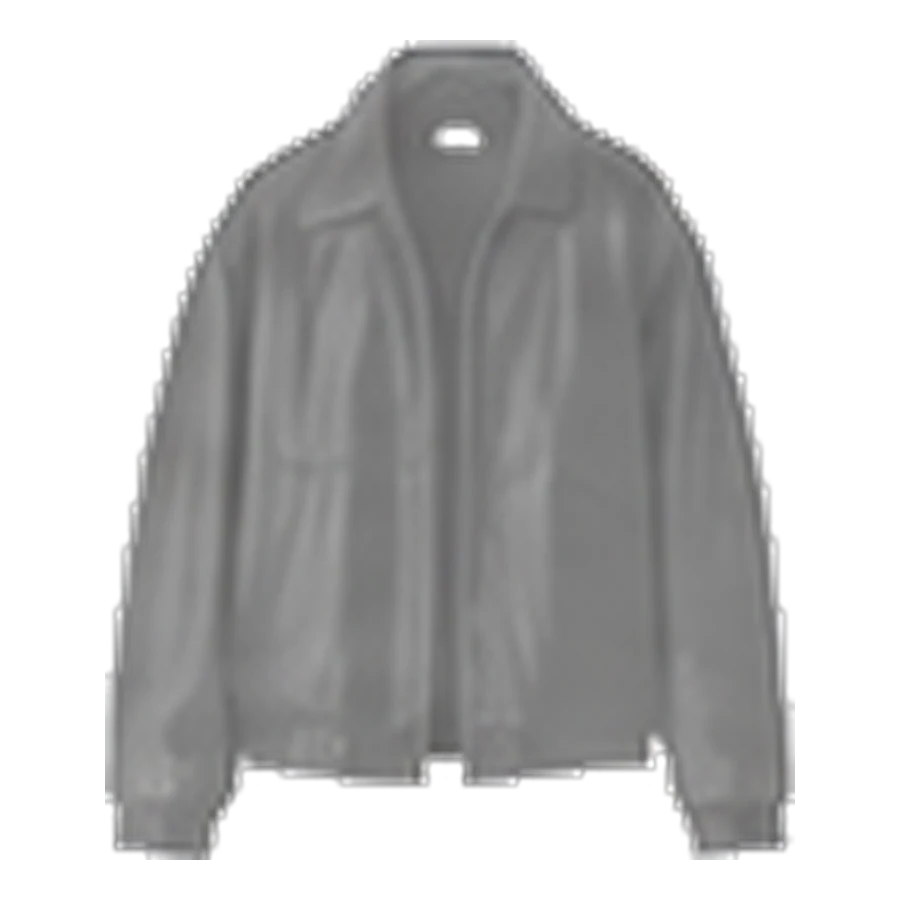
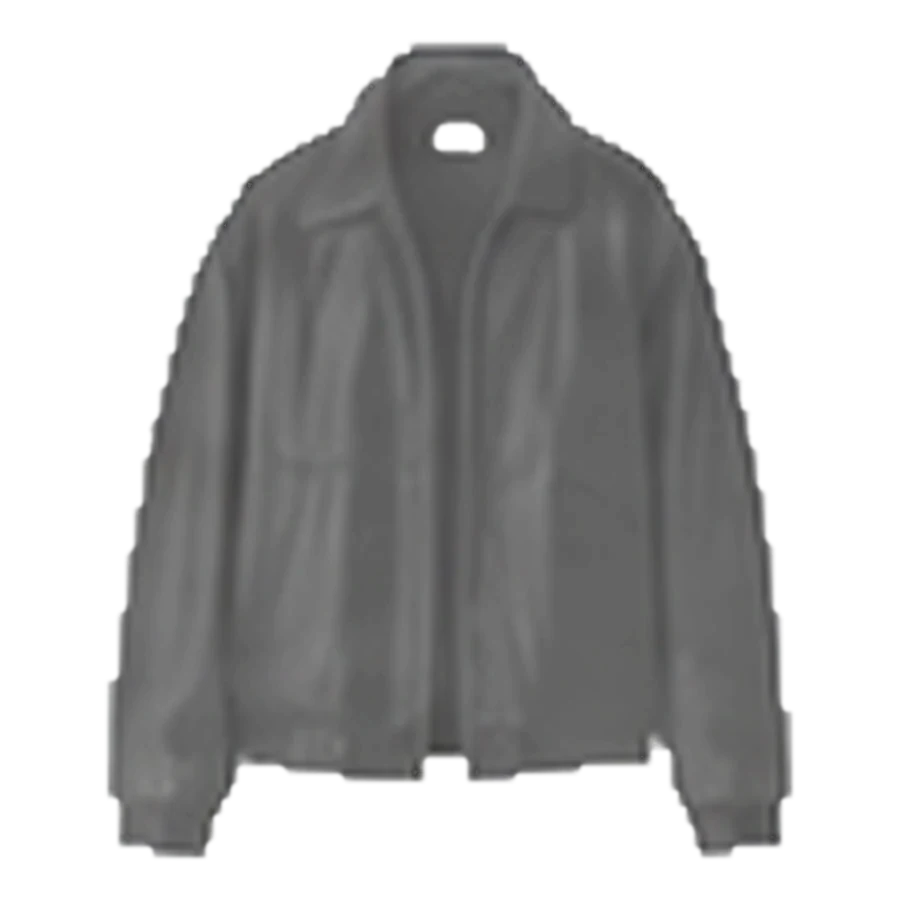
feat: jacket put-on sequence player with shoulder-to-torso fallback
Pre-rendered frame sequences per jacket play under GSAP (power2.inOut,
light crossfade, settle), reverse to take off, and chain when switching
jacket to jacket. Without frames the worn image forms around the model
from the shoulders down. Preloads before starting, warms neighbours,
locks input while playing, updates product info after the cloth settles,
phone-sized frames, reduced motion = quick crossfade. Previews defringed.

diff --git a/src/components/sections/OutfitCarousel.tsx b/src/components/sections/OutfitCarousel.tsx
@@ -15,6 +15,27 @@ export type OutfitItem = Outfit & { product: Product };
 
 const DUR = 0.65;
 const EASE = 'power3.inOut';
+/** Putting a jacket on / taking it off, in seconds. */
+const PUT_ON = 0.85;
+const TAKE_OFF = 0.38;
+const SETTLE = 0.28;
+
+const phone = () => typeof window !== 'undefined' && window.matchMedia('(max-width: 767px)').matches;
+const src = (file: string) => `/img/outfits/${file}`;
+const loadImage = (file: string) =>
+  new Promise<void>((resolve) => {
+    const im = new Image();
+    im.onload = () => resolve();
+    im.onerror = () => resolve();
+    im.src = src(file);
+  });
+/** Every file a garment needs before its change can start. */
+const filesFor = (it: Outfit) => {
+  const m = phone();
+  const final = m && it.mobile ? it.mobile : it.file;
+  const seq = m && it.framesMobile ? it.framesMobile : (it.frames ?? []);
+  return [final, ...seq];
+};
 const AUTOPLAY_MS = 7000;
 
 /** Signed shortest distance from `from` to `to` around a ring of `n`. */
@@ -47,6 +68,8 @@ export function OutfitCarousel({ items }: { items: OutfitItem[] }) {
   const actions = useRef<HTMLDivElement>(null);
   const idle = useRef<number>(0);
   const drag = useRef({ on: false, x: 0, moved: 0 });
+  /** True while a garment is going on or coming off; input is ignored meanwhile. */
+  const busy = useRef(false);
   const wheel = useRef({ acc: 0, lock: 0 });
   const { add } = useStore();
   const { open } = useUi();
@@ -69,7 +92,7 @@ export function OutfitCarousel({ items }: { items: OutfitItem[] }) {
       const a = Math.abs(d);
       const sign = Math.sign(d);
       if (a === 0) return { x: 0, scale: 1, opacity: 0, blur: 0 };
-      if (a === 1) return { x: sign * w * (mobile ? 0.95 : 1.05), scale: 1, opacity: 0.9, blur: 0 };
+      if (a === 1) return { x: sign * w * (mobile ? 0.62 : 1.05), scale: mobile ? 0.9 : 1, opacity: 0.9, blur: 0 };
       if (a === 2) return { x: sign * w * 1.75, scale: 0.85, opacity: mobile ? 0 : 0.35, blur: 1.5 };
       return { x: sign * w * 2.2, scale: 0.85, opacity: 0, blur: 1.5 };
     },
@@ -91,7 +114,11 @@ export function OutfitCarousel({ items }: { items: OutfitItem[] }) {
     });
   }, [active, stageWidth, n, slot]);
 
-  // The garment change: outgoing settles down and away, incoming wipes in.
+  // The garment change. The model never moves: the base frame stays put and a
+  // jacket layer, masked to the torso and arms, either plays its pre-rendered
+  // put-on sequence or — when no sequence has been supplied — forms around the
+  // body from the shoulders down. Switching jacket to jacket takes the current
+  // one off first. Product information updates only once the cloth has settled.
   useLayoutEffect(() => {
     const st = stage.current;
     if (!st) return;
@@ -99,35 +126,97 @@ export function OutfitCarousel({ items }: { items: OutfitItem[] }) {
     prev.current = active;
     if (from === active) return;
     const { gsap } = setupGsap();
-    const out = st.querySelector<HTMLElement>(`[data-jacket="${from}"]`);
-    const inc = st.querySelector<HTMLElement>(`[data-jacket="${active}"]`);
+    const layer = (i: number) => st.querySelector<HTMLElement>(`[data-jacket="${i}"]`);
+    const shadow = st.querySelector<HTMLElement>('[data-shadow]');
+    const out = from === 0 ? null : layer(from);
+    const inc = active === 0 ? null : layer(active);
+    const finish = () => { setShown(active); setSize(null); setSizeError(false); };
 
     if (reduced()) {
-      if (out) gsap.set(out, { opacity: 0 });
-      if (inc) gsap.set(inc, { opacity: 1, clipPath: 'inset(0% 0% 0% 0%)', scale: 1 });
-      setShown(active); setSize(null); setSizeError(false);
-      return;
+      // A quick crossfade, nothing spatial.
+      const tl = gsap.timeline({ onComplete: () => { busy.current = false; } });
+      busy.current = true;
+      if (out) tl.to(out, { opacity: 0, duration: 0.2, ease: 'power1.inOut', overwrite: 'auto' }, 0);
+      if (inc) tl.fromTo(inc, { opacity: 0, clipPath: 'inset(0% 0% 0% 0%)', y: 0, scale: 1 }, { opacity: 1, duration: 0.2, ease: 'power1.inOut', overwrite: 'auto' }, 0);
+      if (shadow) tl.to(shadow, { opacity: inc ? 0.22 : 0, duration: 0.2 }, 0);
+      tl.call(finish);
+      return () => { tl.kill(); };
     }
 
-    const tl = gsap.timeline();
-    if (out) tl.to(out, { opacity: 0, scale: 0.985, duration: 0.5, ease: EASE, overwrite: 'auto' }, 0);
-    if (inc) {
-      tl.fromTo(
-        inc,
-        { opacity: 0, scale: 1.012, clipPath: 'inset(0% 0% 100% 0%)' },
-        { opacity: 1, scale: 1, clipPath: 'inset(0% 0% 0% 0%)', duration: DUR, ease: EASE, overwrite: 'auto' },
-        0.06,
-      );
-    }
-    // Product information: a short vertical reveal.
-    tl.to(info.current, { opacity: 0, y: -8, duration: 0.2, ease: 'power2.in' }, 0)
-      .call(() => { setShown(active); setSize(null); setSizeError(false); }, undefined, 0.22)
-      .fromTo(info.current, { opacity: 0, y: 12 }, { opacity: 1, y: 0, duration: 0.45, ease: 'power3.out' }, 0.24);
-    return () => { tl.kill(); };
-  }, [active]);
+    busy.current = true;
+    let cancelled = false;
+    let tl: gsap.core.Timeline | undefined;
+
+    /** Frames-driven playback (or its reverse) of one jacket layer. */
+    const sequence = (el: HTMLElement, reverse: boolean, duration: number) => {
+      const frames = [...el.querySelectorAll<HTMLElement>('[data-seq]'), el.querySelector<HTMLElement>('[data-final]')!];
+      const last = frames.length - 1;
+      const proxy = { p: reverse ? last : 0 };
+      const paint = () => {
+        // A very light crossfade between neighbouring frames, so nothing flickers.
+        frames.forEach((f, k) => { f.style.opacity = String(Math.max(0, 1 - Math.abs(k - proxy.p))); });
+      };
+      paint();
+      gsap.set(el, { opacity: 1, clipPath: 'inset(0% 0% 0% 0%)', y: 0, scale: 1 });
+      return gsap.to(proxy, { p: reverse ? 0 : last, duration, ease: 'power2.inOut', onUpdate: paint });
+    };
+
+    const takeOff = (t: gsap.core.Timeline, el: HTMLElement, at: number) => {
+      if (el.querySelector('[data-seq]')) {
+        t.add(sequence(el, true, TAKE_OFF), at).to(el, { opacity: 0, duration: 0.12 }, at + TAKE_OFF);
+      } else {
+        // Fallback, reversed: the jacket lifts off the shoulders and thins out.
+        t.to(el, { clipPath: 'inset(22% 0% 78% 0%)', y: -8, scale: 0.99, opacity: 0, duration: TAKE_OFF, ease: 'power2.inOut', overwrite: 'auto' }, at);
+      }
+      if (shadow) t.to(shadow, { opacity: 0, duration: TAKE_OFF, ease: 'power2.inOut' }, at);
+      return at + TAKE_OFF;
+    };
+
+    const putOn = (t: gsap.core.Timeline, el: HTMLElement, at: number) => {
+      const finalFrame = el.querySelector<HTMLElement>('[data-final]');
+      if (el.querySelector('[data-seq]')) {
+        t.add(sequence(el, false, PUT_ON), at);
+      } else {
+        // Fallback: the jacket forms around the model from the shoulders down —
+        // a shoulder-to-torso clip, a small drop, a breath of scale, a crossfade.
+        t.fromTo(el,
+          { clipPath: 'inset(22% 0% 78% 0%)', y: -10, scale: 1.015, opacity: 0 },
+          { clipPath: 'inset(0% 0% 0% 0%)', y: 0, scale: 1, opacity: 1, duration: PUT_ON, ease: 'power2.inOut', overwrite: 'auto' },
+          at);
+      }
+      if (shadow) t.fromTo(shadow, { opacity: 0 }, { opacity: 0.22, duration: PUT_ON, ease: 'power2.inOut' }, at);
+      // Fabric settling: the smallest possible drop and release.
+      const settleTarget = finalFrame ?? el;
+      t.to(settleTarget, { y: 2.5, scale: 1.004, duration: SETTLE / 2, ease: 'power1.out' }, at + PUT_ON)
+        .to(settleTarget, { y: 0, scale: 1, duration: SETTLE / 2, ease: 'power2.out' }, at + PUT_ON + SETTLE / 2);
+      return at + PUT_ON + SETTLE;
+    };
+
+    // Keep the current outfit on screen until the next one has fully loaded.
+    Promise.all(filesFor(items[active]).map(loadImage)).then(() => {
+      if (cancelled) return;
+      tl = gsap.timeline({ onComplete: () => { busy.current = false; } });
+      tl.to(info.current, { opacity: 0, y: -8, duration: 0.2, ease: 'power2.in' }, 0);
+      let at = 0;
+      if (out) at = takeOff(tl, out, at);
+      if (inc) at = putOn(tl, inc, at);
+      tl.call(finish, undefined, at)
+        .fromTo(info.current, { opacity: 0, y: 12 }, { opacity: 1, y: 0, duration: 0.45, ease: 'power3.out' }, at + 0.02);
+    });
+
+    return () => { cancelled = true; tl?.kill(); busy.current = false; };
+  }, [active, items]);
+
+  // After the first paint, warm the neighbours so the first change is instant.
+  useEffect(() => {
+    const warm = () => [1, n - 1].forEach((d) => filesFor(items[(active + d) % n]).forEach(loadImage));
+    const id = window.setTimeout(warm, 800);
+    return () => window.clearTimeout(id);
+  }, [active, items, n]);
 
   const go = useCallback(
     (dir: 1 | -1) => {
+      if (busy.current) return; // one change at a time
       setActive((a) => (a + dir + n) % n);
       idle.current = Date.now() + 12000; // pause autoplay after any interaction
     },
@@ -142,7 +231,7 @@ export function OutfitCarousel({ items }: { items: OutfitItem[] }) {
     let timer = 0;
     let inView = false;
     const tick = () => {
-      if (inView && Date.now() > idle.current && !root.current?.matches(':hover, :focus-within')) {
+      if (inView && !busy.current && Date.now() > idle.current && !root.current?.matches(':hover, :focus-within')) {
         setActive((a) => (a + 1) % n);
       }
     };
@@ -288,7 +377,7 @@ export function OutfitCarousel({ items }: { items: OutfitItem[] }) {
           >
             <div className="aspect-square h-[34%] md:h-[40%]">
               {/* eslint-disable-next-line @next/next/no-img-element -- flat garment preview, sized by the contract */}
-              <img src={`/img/outfits/${it.preview}`} alt="" width={900} height={900} loading="lazy" decoding="async" className="h-full w-full object-contain" />
+              <img src={src(it.preview)} alt="" width={900} height={900} loading="lazy" decoding="async" className="h-full w-full object-contain" />
             </div>
           </div>
         ))}
@@ -299,16 +388,26 @@ export function OutfitCarousel({ items }: { items: OutfitItem[] }) {
           className="relative z-10 h-full select-none"
           style={{ aspectRatio: `${FRAME.width} / ${FRAME.height}` }}
         >
-          {/* eslint-disable-next-line @next/next/no-img-element -- the contract's base frame */}
-          <img
-            src={`/img/outfits/${items[0].file}`}
-            alt={current.alt}
-            width={FRAME.width}
-            height={FRAME.height}
-            fetchPriority="high"
-            decoding="async"
-            className="h-full w-auto"
-            draggable={false}
+          <picture>
+            {items[0].mobile ? <source media="(max-width: 767px)" srcSet={src(items[0].mobile)} /> : null}
+            {/* eslint-disable-next-line @next/next/no-img-element -- the contract's base frame */}
+            <img
+              src={src(items[0].file)}
+              alt={current.alt}
+              width={FRAME.width}
+              height={FRAME.height}
+              fetchPriority="high"
+              decoding="async"
+              className="h-full w-auto"
+              draggable={false}
+            />
+          </picture>
+          {/* A soft shadow the jacket casts on the tee and arms while it is worn. */}
+          <div
+            data-shadow
+            aria-hidden
+            className="pointer-events-none absolute inset-x-[8%] top-[20%] h-[52%] opacity-0"
+            style={{ background: 'radial-gradient(ellipse 60% 55% at 50% 30%, rgba(16,16,16,0.45), rgba(16,16,16,0) 70%)', ...mask }}
           />
           {items.map((it, i) =>
             i === 0 ? null : (
@@ -319,8 +418,18 @@ export function OutfitCarousel({ items }: { items: OutfitItem[] }) {
                 className="absolute inset-0"
                 style={{ ...mask, opacity: i === active ? 1 : 0, transformOrigin: '50% 38%' }}
               >
-                {/* eslint-disable-next-line @next/next/no-img-element -- masked garment layer */}
-                <img src={`/img/outfits/${it.file}`} alt="" width={FRAME.width} height={FRAME.height} loading={i === 1 ? 'eager' : 'lazy'} decoding="async" className="h-full w-auto" draggable={false} />
+                {(it.frames ?? []).map((f, k) => (
+                  <picture key={f} data-seq={k} className="absolute inset-0 block opacity-0">
+                    {it.framesMobile?.[k] ? <source media="(max-width: 767px)" srcSet={src(it.framesMobile[k])} /> : null}
+                    {/* eslint-disable-next-line @next/next/no-img-element -- put-on sequence frame */}
+                    <img src={src(f)} alt="" width={FRAME.width} height={FRAME.height} loading="lazy" decoding="async" className="h-full w-auto" draggable={false} />
+                  </picture>
+                ))}
+                <picture data-final className="absolute inset-0 block">
+                  {it.mobile ? <source media="(max-width: 767px)" srcSet={src(it.mobile)} /> : null}
+                  {/* eslint-disable-next-line @next/next/no-img-element -- the worn frame */}
+                  <img src={src(it.file)} alt="" width={FRAME.width} height={FRAME.height} loading={i === 1 ? 'eager' : 'lazy'} decoding="async" className="h-full w-auto" draggable={false} />
+                </picture>
               </div>
             ),
           )}

diff --git a/src/lib/outfits.ts b/src/lib/outfits.ts
@@ -39,6 +39,18 @@ export type Outfit = {
   slug: string;
   /** File under /img/outfits/, with extension. */
   file: string;
+  /** Phone-sized version of `file` (800×1200), served under 768px. Optional. */
+  mobile?: string;
+  /**
+   * The put-on sequence: 6–8 intermediate frames, in order, from "jacket
+   * entering behind the shoulders" to "folds settling", NOT including the base
+   * or the final worn frame. Same contract as `file`. When absent the carousel
+   * uses its fallback: the final frame forms around the model through a
+   * shoulder-to-torso clip, a small drop, a breath of scale and a soft shadow.
+   */
+  frames?: string[];
+  /** Phone-sized versions of `frames`, same order. Optional. */
+  framesMobile?: string[];
   /** File under /img/outfits/ for the flat garment shown beside the model. */
   preview: string;
   /** The colour depicted, which is the colour "Add to bag" adds. */
@@ -51,6 +63,7 @@ export const outfits: Outfit[] = [
   {
     slug: 'baseline-tee',
     file: 'base.webp',
+    mobile: 'base-m.webp',
     preview: 'preview-tee.webp',
     colour: 'Ink',
     alt: 'The model in the Baseline Tee in ink and washed grey Column jeans, standing square to the camera, arms at the sides.',
@@ -58,6 +71,7 @@ export const outfits: Outfit[] = [
   {
     slug: 'plane-technical-jacket',
     file: 'jacket-01.webp',
+    mobile: 'jacket-01-m.webp',
     preview: 'preview-technical.webp',
     colour: 'Sand',
     alt: 'The same model and pose, wearing the Plane Technical Jacket in sand, zipped open over the tee.',
@@ -65,6 +79,7 @@ export const outfits: Outfit[] = [
   {
     slug: 'axis-leather-jacket',
     file: 'jacket-02.webp',
+    mobile: 'jacket-02-m.webp',
     preview: 'preview-leather.webp',
     colour: 'Ink',
     alt: 'The same model and pose, wearing the Axis Leather Jacket in ink, open over the tee.',
